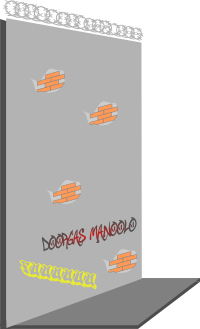
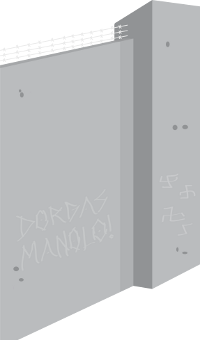
Change sprites and add background

diff --git a/jailbreakerz/game.py b/jailbreakerz/game.py
@@ -19,6 +19,17 @@ import random
 import cocos
 
 
+class Background(Layer):
+    def __init__(self):
+        super(Background, self).__init__()
+        self.img = pyglet.resource.image('media/imgs/background.png')
+
+    def draw(self):
+        glPushMatrix()
+        self.transform()
+        self.img.blit(0,0)
+        glPopMatrix()
+
 class Game(Scene):
 
     is_event_handler = True
@@ -49,6 +60,11 @@ class Game(Scene):
 
 
     def load_scenario(self):
+        self.background = Background()
+#        self.background = Sprite('media/imgs/background.png')
+#        self.background.position = 0,0
+        self.add(self.background)
+
         self.prison = Sprite('media/imgs/prison.png')
         self.prison.position = 100,170
         self.add(self.prison)
